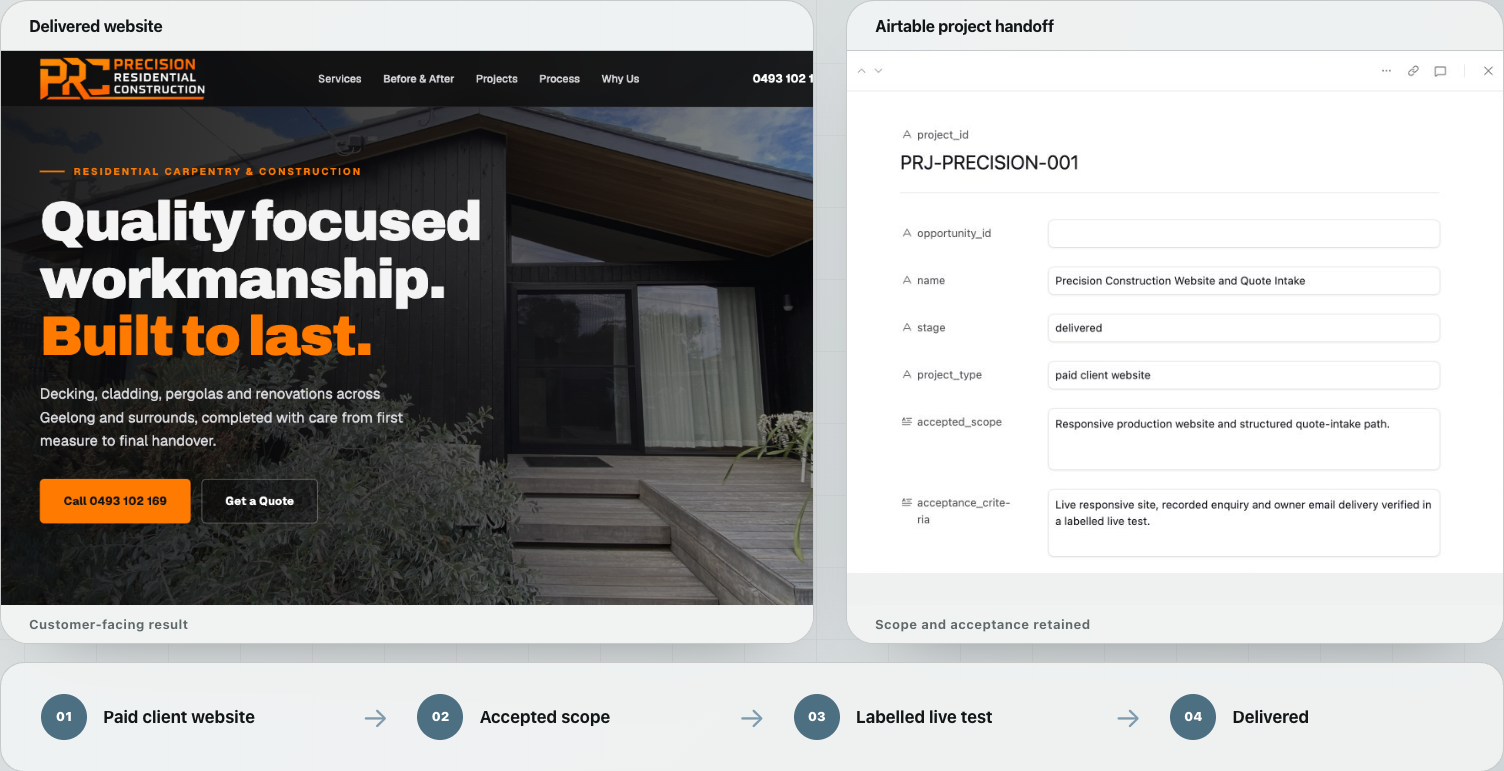
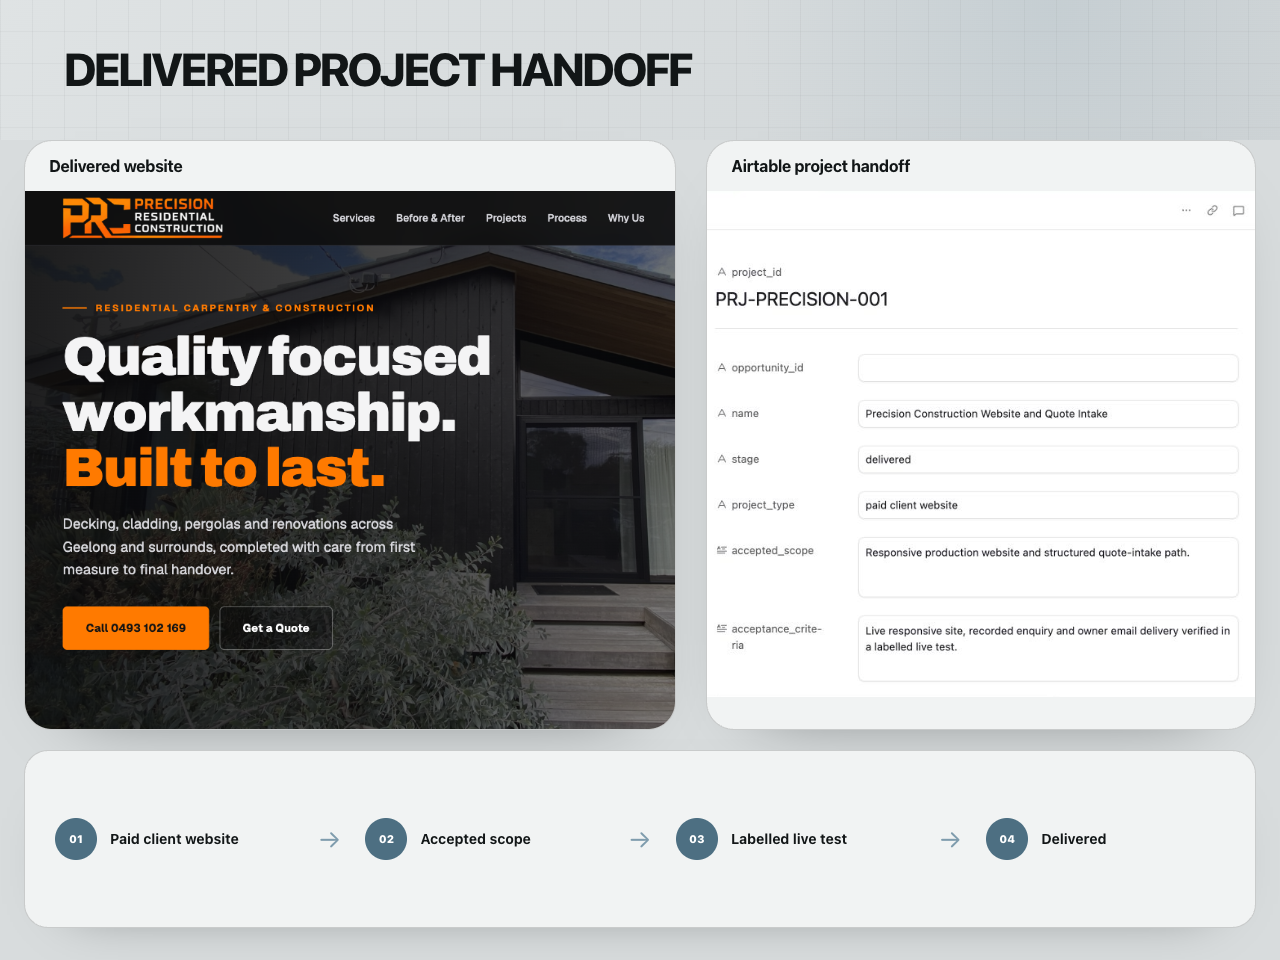
Refine Airtable and Make proof package (#22)
Use the approved 4:3 proof frames, simplify the case-study presentation, and add the public GitHub repository link.

diff --git a/app/work/airtable-make-opportunity-pipeline/page.tsx b/app/work/airtable-make-opportunity-pipeline/page.tsx
@@ -13,33 +13,28 @@ const airtableMakePipeline = proofItems.find(
 const screenshotLayout = [
   {
     src: '/airtable-make/pipeline-overview.png',
-    title: 'Implemented outreach and opportunity pipeline',
-    width: 1504,
-    height: 705,
+    width: 1280,
+    height: 960,
   },
   {
     src: '/airtable-make/outreach-analytics.png',
-    title: 'Outreach ledger and follow-up controls',
-    width: 1504,
-    height: 705,
+    width: 1280,
+    height: 960,
   },
   {
     src: '/airtable-make/airtable-opportunities.png',
-    title: 'Airtable opportunity routing',
-    width: 1504,
-    height: 705,
+    width: 1280,
+    height: 960,
   },
   {
     src: '/airtable-make/delivery-handoff.png',
-    title: 'Delivered project handoff',
-    width: 1504,
-    height: 771,
+    width: 1280,
+    height: 960,
   },
   {
     src: '/airtable-make/make-router.png',
-    title: 'Make opportunity intake router',
-    width: 1504,
-    height: 705,
+    width: 1280,
+    height: 960,
   },
 ];
 
@@ -50,8 +45,8 @@ export const metadata: Metadata = createPageMetadata({
   path: '/work/airtable-make-opportunity-pipeline/',
   image: {
     url: '/airtable-make/pipeline-overview.png',
-    width: 1504,
-    height: 705,
+    width: 1280,
+    height: 960,
     alt: 'Airtable and Make opportunity pipeline overview',
   },
 });
@@ -94,19 +89,29 @@ export default function AirtableMakeOpportunityPipelinePage() {
           <ProjectEnquiryTrigger className="button button-primary">
             Discuss your workflow
           </ProjectEnquiryTrigger>
+          <Link
+            className="button button-secondary"
+            href={
+              airtableMakePipeline.primaryLink ??
+              'https://github.com/stefan-mcf/airtable-make-opportunity-pipeline'
+            }
+          >
+            View GitHub repository
+          </Link>
         </div>
         <Link className="text-link case-study-back" href="/#work">
           Back to selected work
         </Link>
       </header>
 
-      <section className="case-study-gallery" aria-labelledby="pipeline-walkthrough">
+      <section className="case-study-gallery" aria-labelledby="pipeline-sequence">
         <div className="case-study-section-heading">
-          <p className="proof-lane">Operating sequence</p>
-          <h2 id="pipeline-walkthrough">From opportunity to project handoff.</h2>
+          <h2 id="pipeline-sequence">
+            A controlled path from opportunity to delivery.
+          </h2>
           <p>
-            The Airtable and Make views show how approved records are routed,
-            reviewed, and carried into delivery.
+            Approved records enter Airtable, move through bounded Make routing,
+            and retain their review and delivery states in one operating system.
           </p>
         </div>
 
@@ -124,7 +129,6 @@ export default function AirtableMakeOpportunityPipelinePage() {
               </div>
               <figcaption>
                 <span>
-                  <strong>{screenshot.title}</strong>
                   <span>{screenshot.caption}</span>
                 </span>
               </figcaption>
@@ -135,7 +139,6 @@ export default function AirtableMakeOpportunityPipelinePage() {
 
       <section className="case-study-overview" aria-labelledby="pipeline-overview">
         <div className="case-study-section-heading">
-          <p className="proof-lane">Project overview</p>
           <h2 id="pipeline-overview">
             One controlled path from intake to delivery.
           </h2>
@@ -156,7 +159,6 @@ export default function AirtableMakeOpportunityPipelinePage() {
         aria-label="What the opportunity pipeline includes"
       >
         <article>
-          <p className="proof-lane">Opportunity intake</p>
           <h2>Approved records enter one operating view.</h2>
           <p>
             New opportunities are validated and given stable keys before they
@@ -164,7 +166,6 @@ export default function AirtableMakeOpportunityPipelinePage() {
           </p>
         </article>
         <article>
-          <p className="proof-lane">Routing controls</p>
           <h2>Duplicates and exceptions stop cleanly.</h2>
           <p>
             The connected Make router separates valid, duplicate, invalid, and
@@ -172,7 +173,6 @@ export default function AirtableMakeOpportunityPipelinePage() {
           </p>
         </article>
         <article>
-          <p className="proof-lane">Human approval</p>
           <h2>External actions remain deliberate.</h2>
           <p>
             Applications, messages, and spending stay manual. A project handoff
@@ -183,7 +183,6 @@ export default function AirtableMakeOpportunityPipelinePage() {
 
       <section className="case-study-final">
         <div>
-          <p className="proof-lane">Similar systems</p>
           <h2>Bring your operating workflow into one clear path.</h2>
           <p>
             SM Systems builds Airtable operating views, Make routing workflows,

diff --git a/content/proof.ts b/content/proof.ts
@@ -303,6 +303,9 @@ export const proofItems: ProofItem[] = [
     problemShape:
       'A private opportunity and delivery pipeline connecting owner-approved intake, Airtable records, Make routing, duplicate checks, review decisions, and project handoffs.',
     caseStudyLink: '/work/airtable-make-opportunity-pipeline/',
+    primaryLink:
+      'https://github.com/stefan-mcf/airtable-make-opportunity-pipeline',
+    primaryLinkLabel: 'View GitHub repository',
     caseStudy: {
       proofStrip: [
         {
@@ -327,40 +330,40 @@ export const proofItems: ProofItem[] = [
           alt: 'Pipeline overview showing sent outreach, source lists, opportunities, delivered work, outreach mix, and source coverage.',
           caption:
             'Operating view bringing outreach, source coverage, opportunities, and delivered work into one pipeline.',
-          width: 1504,
-          height: 705,
+          width: 1280,
+          height: 960,
         },
         {
           src: '/airtable-make/outreach-analytics.png',
           alt: 'Outreach analytics showing source coverage and manual follow-up controls.',
           caption:
-            'Ledger-backed outreach coverage with clear source visibility and manual follow-up controls.',
-          width: 1504,
-          height: 705,
+            'Ledger-backed outreach coverage with clear source visibility and human-controlled follow-up status.',
+          width: 1280,
+          height: 960,
         },
         {
           src: '/airtable-make/airtable-opportunities.png',
           alt: 'Airtable opportunities view showing owner-approved records routed into decision-required and review-hold states.',
           caption:
-            'Airtable opportunities view showing owner-approved records routed into decision and review states.',
-          width: 1504,
-          height: 705,
+            'Authenticated Airtable view showing Make-routed opportunities in decision-required and owner-review states.',
+          width: 1280,
+          height: 960,
         },
         {
           src: '/airtable-make/delivery-handoff.png',
           alt: 'Delivered Precision Residential Construction website beside its Airtable project record and accepted delivery path.',
           caption:
-            'Delivered website shown beside its Airtable project record, with accepted scope and criteria retained.',
-          width: 1504,
-          height: 771,
+            'The delivered Precision website shown alongside its Airtable project record, accepted scope, and labelled acceptance path.',
+          width: 1280,
+          height: 960,
         },
         {
           src: '/airtable-make/make-router.png',
           alt: 'Opportunity intake router in Make showing the connected Airtable workflow, successful route tests, and inactive final state.',
           caption:
-            'Make scenario showing the connected router, successful route tests, and inactive final state.',
-          width: 1504,
-          height: 705,
+            'Authenticated Make view of the connected 14-module router, four bounded route tests, and final inactive state.',
+          width: 1280,
+          height: 960,
         },
       ],
     },
